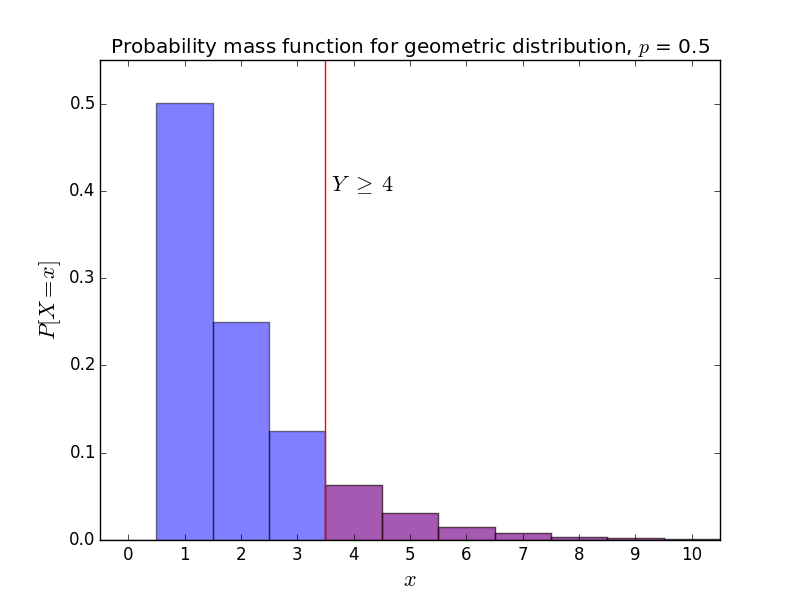
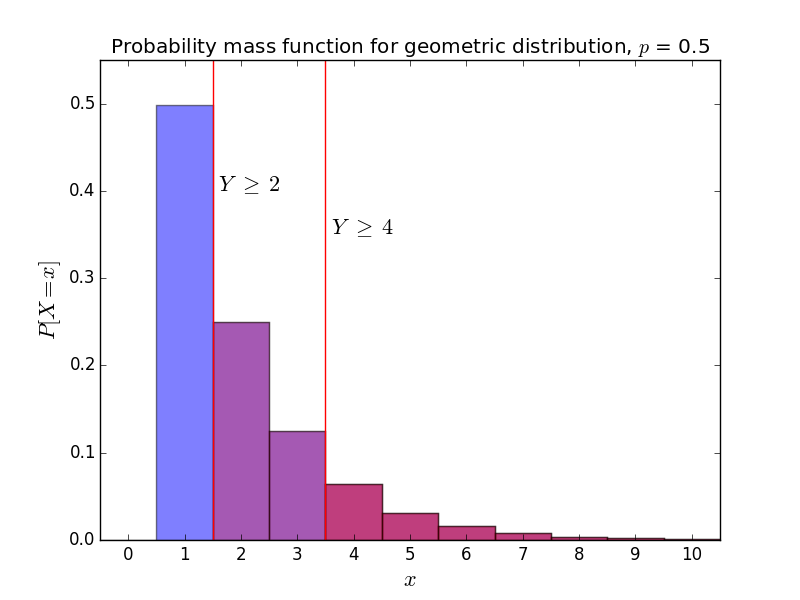
Changed script generating pictures. Changed pictures and captions. Added intuition

diff --git a/_scripts/pdf_plot.py b/_scripts/pdf_plot.py
@@ -27,11 +27,16 @@ def geometric(p):
     plt.xticks(np.arange(11))
     plt.xlim((-width / 2, 10 + width / 2))
     plt.ylim((0, 0.55))
-    # Decision boundary
+    # Decision boundaries
     plt.axvline(x=4-width/2, color='r')
-    plt.text(4-width/2+0.1, 0.4, r'$Y \,\geq\, 4$', fontsize=16)
-    probs = probs[4:]
-    plt.bar(np.arange(4*width, 11 * width, width), probs, width, align='center', alpha=0.3, color='red')
+    plt.text(4-width/2+0.1, 0.35, r'$Y \,\geq\, 4$', fontsize=16)
+    probs2 = probs[4:]
+    plt.bar(np.arange(4*width, 11 * width, width), probs2, width, align='center', alpha=0.3, color='red')
+
+    plt.axvline(x=2-width/2, color='r')
+    plt.text(2-width/2+0.1, 0.4, r'$Y \,\geq\, 2$', fontsize=16)
+    probs2 = probs[2:]
+    plt.bar(np.arange(2*width, 11 * width, width), probs2, width, align='center', alpha=0.3, color='red')
 
     plt.show()
 
@@ -51,13 +56,21 @@ def std_normal():
     ax = plt.gca()
     ax.fill_between(x, y, facecolor='blue', alpha=0.5)
     # Decision boundary
-    plt.axvline(x=1, color='r')
-    plt.text(1.1, 0.32727, r'$Y \,\geq\, 1$', fontsize=16)
-    pairs = zip(x, y)
-    pairs = filter(lambda p: p[0] >= 1, pairs)
-    x = [p[0] for p in pairs]
-    y = [p[1] for p in pairs]
-    ax.fill_between(x, y, facecolor='red', alpha=0.3)
+    plt.axvline(x=0.5, color='r')
+    plt.text(0.5+0.1, 0.37, r'$Y \,\geq\, 0.5$', fontsize=16)
+    pairs2 = zip(x, y)
+    pairs2 = filter(lambda p: p[0] >= 0.5, pairs2)
+    x2 = [p[0] for p in pairs2]
+    y2 = [p[1] for p in pairs2]
+    ax.fill_between(x2, y2, facecolor='red', alpha=0.3)
+
+    plt.axvline(x=1.5, color='r')
+    plt.text(1.5+0.1, 0.32727, r'$Y \,\geq\, 1.5$', fontsize=16)
+    pairs2 = zip(x, y)
+    pairs2 = filter(lambda p: p[0] >= 1.5, pairs2)
+    x2 = [p[0] for p in pairs2]
+    y2 = [p[1] for p in pairs2]
+    ax.fill_between(x2, y2, facecolor='red', alpha=0.3)
 
     plt.show()
 
